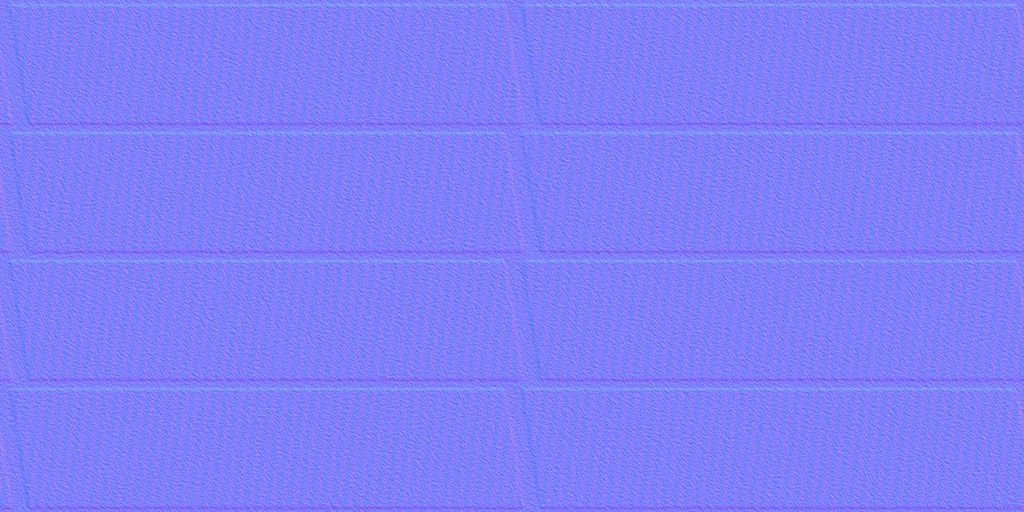
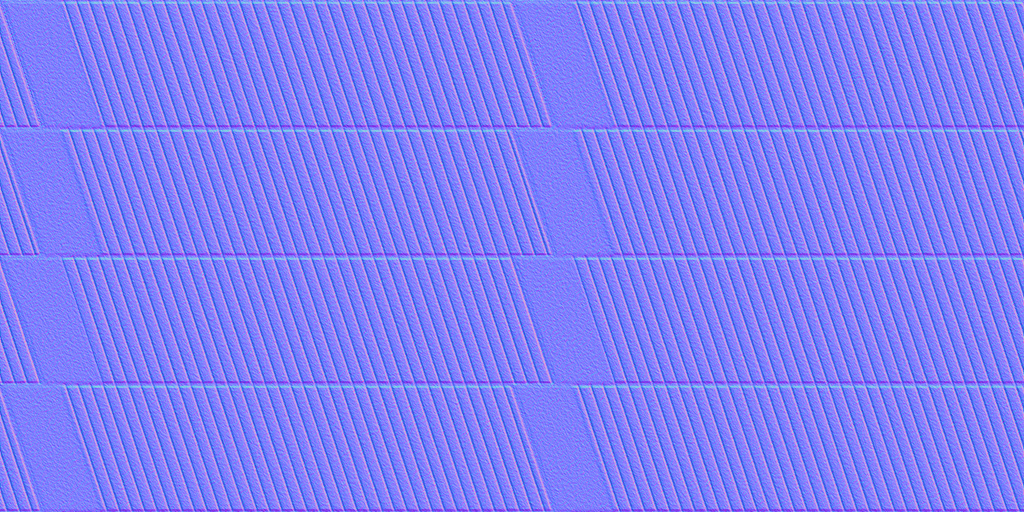
stadium: the turbo pads' grating and the road turbo's railings and fans as TMNF's (M11-2)
TMNF's pad is a grating of dense round bars with a flat plate strip at
each panel's start and thin seams; ours had sparse stripes and wide white
seams. Redrawn in that layout. The turbines' catwalks get railings (cut-
out cards) instead of dark glass, their fans nine dark blades over a dark
inside. HANDOFF and the check notes brought up to date.

Claude-Session: https://claude.ai/code/session_01CoCjs3F2Nw6StPmuE9yD2C

diff --git a/stadium/tools/texgen/turbo.py b/stadium/tools/texgen/turbo.py
@@ -1,7 +1,8 @@
 """Our turbo pad (UV-mapped, 1024 x 512: u along the road, 16 m a tile; v across, mirrored about
 the pad's centreline by the UVs), laid out as TMNF's pad is (measured, docs/research/m11_check.md):
-dark ribbed steel panels in a 2 x 4 grid of light seams, a big yellow arrow pointing along u in
-each half (the lower one mirrored), a few red scrapes. Drawn here; only the layout follows TMNF.
+dark steel grating panels (round bars slanting at ~72 degrees, a flat plate strip at each panel's
+start) in a 2 x 4 grid of thin grey seams, a big yellow arrow pointing along u in each half (the
+lower one mirrored), a few red scrapes. Drawn here; only the layout follows TMNF.
 Run: python3 stadium/tools/texgen/turbo.py"""
 import numpy as np
 from texlib import fbm, smoothstep, srgb, lerp, normal_from_height, save, poly_mask, grime, font, text_mask, rect_mask
@@ -14,21 +15,35 @@ def turbo_pad(name='turbo_pad', seed=411):
     fine = fbm(W, H, seed, beta=0.7, lo=80.0)
     mott = fbm(W, H, seed + 1, beta=2.2, lo=2.0, hi=30.0)
     dirt = np.clip(grime(W, H, seed + 2, amount=1.0), 0, 1)
-    # panels: 2 across (u), 4 down (v), their left edges slanting, light seams between
-    shear = 0.16
+    # panels: 2 across (u), 4 down (v), slanting as their bars do; each starts with a flat plate
+    # strip, then the grating; thin light seams with bolts between
+    shear = 0.33
     ux = (xx - shear * (yy % 128.0)) % 512.0
-    seam_u = 1.0 - smoothstep(6.0, 11.0, np.minimum(ux, 512.0 - ux))
+    seam_u = 1.0 - smoothstep(2.0, 4.0, np.minimum(ux, 512.0 - ux))
     vy = yy % 128.0
-    seam_v = 1.0 - smoothstep(3.0, 6.0, np.minimum(vy, 128.0 - vy))
+    seam_v = 1.0 - smoothstep(1.5, 3.0, np.minimum(vy, 128.0 - vy))
     seam = np.clip(seam_u + seam_v, 0, 1)
-    # the ribs: fine grooves slanting a little off v
-    rib = 0.5 + 0.5 * np.cos(((xx + 0.12 * yy) / 11.0) * 2 * np.pi)
-    steel = srgb((48, 46, 40))[None, None, :] * (0.78 + 0.32 * rib + 0.06 * mott + 0.05 * fine)[..., None]
-    col = lerp(steel, srgb((196, 190, 172))[None, None, :] * (1.0 + 0.06 * fine)[..., None], seam[..., None])
+    plate = 1.0 - smoothstep(58.0, 62.0, ux)
+    bolt = np.zeros((H, W), np.float32)
+    for k in range(4):
+        by = 128.0 * k + 6.0
+        for bx in np.arange(10.0, W, 64.0):
+            bolt = np.maximum(bolt, 1.0 - smoothstep(1.5, 2.5, np.hypot(xx - bx - shear * 6.0, yy - by)))
+    # the grating: round bars ~0.2 m apart along u (12.5 px), dark gaps between
+    ph = np.mod((xx - shear * yy) / 12.5, 1.0)
+    gap = 1.0 - smoothstep(0.08, 0.16, ph) * (1.0 - smoothstep(0.92, 1.0, ph))
+    tube = np.sin(np.pi * np.clip((ph - 0.1) / 0.85, 0, 1))
+    rib = (1.0 - gap) * (0.55 + 0.45 * tube) * (1.0 - plate)
+    steel = srgb((36, 36, 35))[None, None, :] * (0.55 + 0.9 * rib + 0.05 * mott + 0.04 * fine)[..., None]
+    plate_c = srgb((142, 144, 140))[None, None, :] * (1.0 + 0.05 * fine + 0.04 * mott)[..., None]
+    col = lerp(steel, plate_c, plate[..., None])
+    col = lerp(col, srgb((168, 168, 162))[None, None, :] * (1.0 + 0.06 * fine)[..., None], seam[..., None])
+    col = lerp(col, srgb((96, 96, 92))[None, None, :] * np.ones((H, W, 1)), (bolt * seam_v)[..., None])
     # the arrows (top one, its mirror below), yellow paint over the ribs, worn by tyres
     top = [(60, 40), (100, 40), (985, 222), (135, 222)]
     arrow = poly_mask(W, H, [top, [(x, H - 1 - y) for x, y in top]], blur_px=1.0)
-    paint = srgb((214, 184, 6))[None, None, :] * (0.9 + 0.12 * rib + 0.05 * fine)[..., None]
+    paint = srgb((214, 184, 6))[None, None, :] * (0.72 + 0.3 * rib + 0.28 * plate + 0.05 * fine)[..., None]
+    paint *= (1.0 - 0.55 * gap * (1.0 - plate))[..., None]
     wear = smoothstep(0.8, 1.0, dirt) * 0.3
     col = lerp(col, paint, (arrow * (1.0 - wear) * (1.0 - 0.8 * seam))[..., None])
     # red scrapes near the arrows' tails
@@ -38,9 +53,9 @@ def turbo_pad(name='turbo_pad', seed=411):
         scr = np.maximum(scr, (1.0 - smoothstep(1.0, 2.5, d)) * ((yy > y0) & (yy < y0 + 110 - 10 * k)))
     col = lerp(col, srgb((150, 20, 18))[None, None, :], (0.8 * scr)[..., None])
     col *= (1.0 - 0.12 * dirt)[..., None]
-    hgt = 0.6 * rib * (1.0 - seam) - 0.8 * seam + 0.3 * fine
+    hgt = 2.0 * rib * (1.0 - seam) - 1.2 * gap * (1.0 - plate) + 0.6 * plate - 0.8 * seam + 0.3 * fine
     nrm = normal_from_height(hgt, 0.5)
-    orm = np.stack([np.ones((H, W), np.float32), 0.55 + 0.2 * (1.0 - arrow) + 0.1 * seam,
+    orm = np.stack([1.0 - 0.4 * gap * (1.0 - plate), 0.55 + 0.2 * (1.0 - arrow) + 0.1 * seam,
                     0.35 * (1.0 - arrow) * (1.0 - seam)], -1)
     save(name, np.clip(col, 0, 1), nrm, orm)
 

diff --git a/docs/HANDOFF.md b/docs/HANDOFF.md
@@ -41,12 +41,18 @@
   platform truss columns (slotted plates outside), the airship (gondola, fins, moorings, livery),
   the pub base and the camera pub, the camera lights' steel and spotlights, the ground
   grandstands' orange strips, the dirt roads' furniture, the loops' backs, the stand roofs' glass
-  band (M11-8), the circuit base's bump, hole and pillar variants (M11-4), the glass booth's room.
-  Side-by-side renders:
+  band (M11-8), the circuit base's bump, hole and pillar variants (M11-4), the glass booth's room,
+  the booths' plinth rims and gallery ends, the grandstand roofs' membrane (fabric_roof), the
+  dirt-to-road transition (road_to_dirt) and TMNF's LED signs on 13 dirt pieces, the dirt pieces'
+  border tubes and rubber ends, the platform ramp's orange curb underside, the turbo pads'
+  grating, the road turbo's railings and fans. Side-by-side renders:
   `tests/block_view.tscn` (one shape; `--ref=<local ref dir>` shows TMNF's own look); numbers:
-  `tests/block_dump.tscn` + `material_check.py --shape=<family> --detail`. Next by our tracks'
-  use: sculptures, the road turbo gantry, junction undersides, the other pub forms,
-  the dirt's colour (TMNF's darker); then PLAN M11-3, 5..7.
+  `tests/block_dump.tscn` + `material_check.py --shape=<family> --detail` (it can't tell
+  coplanar or hidden surfaces apart: check a big "differ" with a render before fixing it; sample
+  TMNF's colours inside triangles, never at vertices). Left by our tracks' use: the sculptures'
+  borders, the inflatable trees (organic), the hill pieces' fabric awnings (DirtFabric), the
+  gates' big sign panels (left out: owner's option B), the open ends of platform decks; then PLAN
+  M11-3, 5..7.
 - Continue on `stadium`. Open (owner's calls): TMNF's padlocks on later campaign tracks, the
   engine's layers' pitch curves, the rest of TMNF's wheelie (on flat ground ours now lifts its
   nose more than TMNF's: 19.1 s of the ghost_fit ground windows against 5.9).

diff --git a/docs/research/m11_check.md b/docs/research/m11_check.md
@@ -129,6 +129,19 @@ Not real: EditorHelpers, light glows (WarpSpotsGlow).
   wall dark (BaseGround missing 280 -> 1 m2). Sample TMNF's colours inside triangles, not at
   vertices: its ceiling's vertices sit on dark texels, its face is light (182).
 
+- The booths' plinth rims (bluish grey), the camera booth's walkway (white), the galleries' ends
+  (dark): camera booth 127 -> 73 m2, its straight 392 -> 64, glass straight 650 -> 320 (20 Oct).
+- The grandstands' wave roofs: fabric_roof in TMNF's layout (ribs every two facets, pillows).
+- The dirt-to-road transition's asphalt (road_to_dirt), the LED signs (13 dirt pieces), the dirt
+  pieces' border tubes (41) and the bumpers' rubber ends (StadiumRaceSignsRubber, 21 pieces).
+- The platform ramp's curb underside (orange band), the turbo pads' grating, the road turbo's
+  railings and fans.
+- Checked and left: the road pub base and the grandstand pillar piece ("differ" from coplanar or
+  hidden surfaces the tool can't tell apart: a light strip 2 mm over rubber, a screen in its
+  measured frame); the platform wall's orange band (its rows TMNF's; the rest is TMNF's printed
+  logos, ours our emblem); the road undersides (their mean colour TMNF's; the rest is texture
+  pattern).
+
 ## Our tracks' blocks now (20 Oct)
 The 76 shapes our tracks use (`--shapes` from our tracks), TMNF area 276,492 m2: colour differs
 10.5% (13.5% at the round's start), missing 7.5% (11.8%). Left, by area times our tracks' use: the

diff --git a/docs/PROGRESS.md b/docs/PROGRESS.md
@@ -2770,3 +2770,12 @@ on every real contact the full impulse would land at the contact point and kick 
   Platform/ToRoad/ToRoadMainAir (38 uses on our tracks) TMNF skins the curb's slanted outer
   underside with the border atlas' orange band and blue line (rows 300-367) where its air roads
   show the black band (ours had the black band there too). Side by side with TMNF's piece.
+- (M11-2) **The turbo pads' grating and the road turbo's turbines as TMNF's** (`texgen/turbo.py
+  turbo_pad`, `road.gd _turbo_sides`; Road/Main/Turbo 145 uses on our tracks each way). Up close
+  TMNF's pad is a grating of dense round bars (~0.2 m apart, ~72 degrees to the road) with a flat
+  plate strip at each panel's start, all slanting together, thin grey seams with bolts, the
+  arrows painted over bars and plates; ours had sparse soft stripes and wide white seams. Redrawn
+  so (our drawing, the layout TMNF's): from the car it reads as TMNF's zigzag of plates between
+  the arrows. Its turbines' catwalks now have railings (our cut-out railing cards, solid to the
+  car) where we had dark glass panels, and their fans nine dark blades over a dark inside (we had
+  four light ones).
